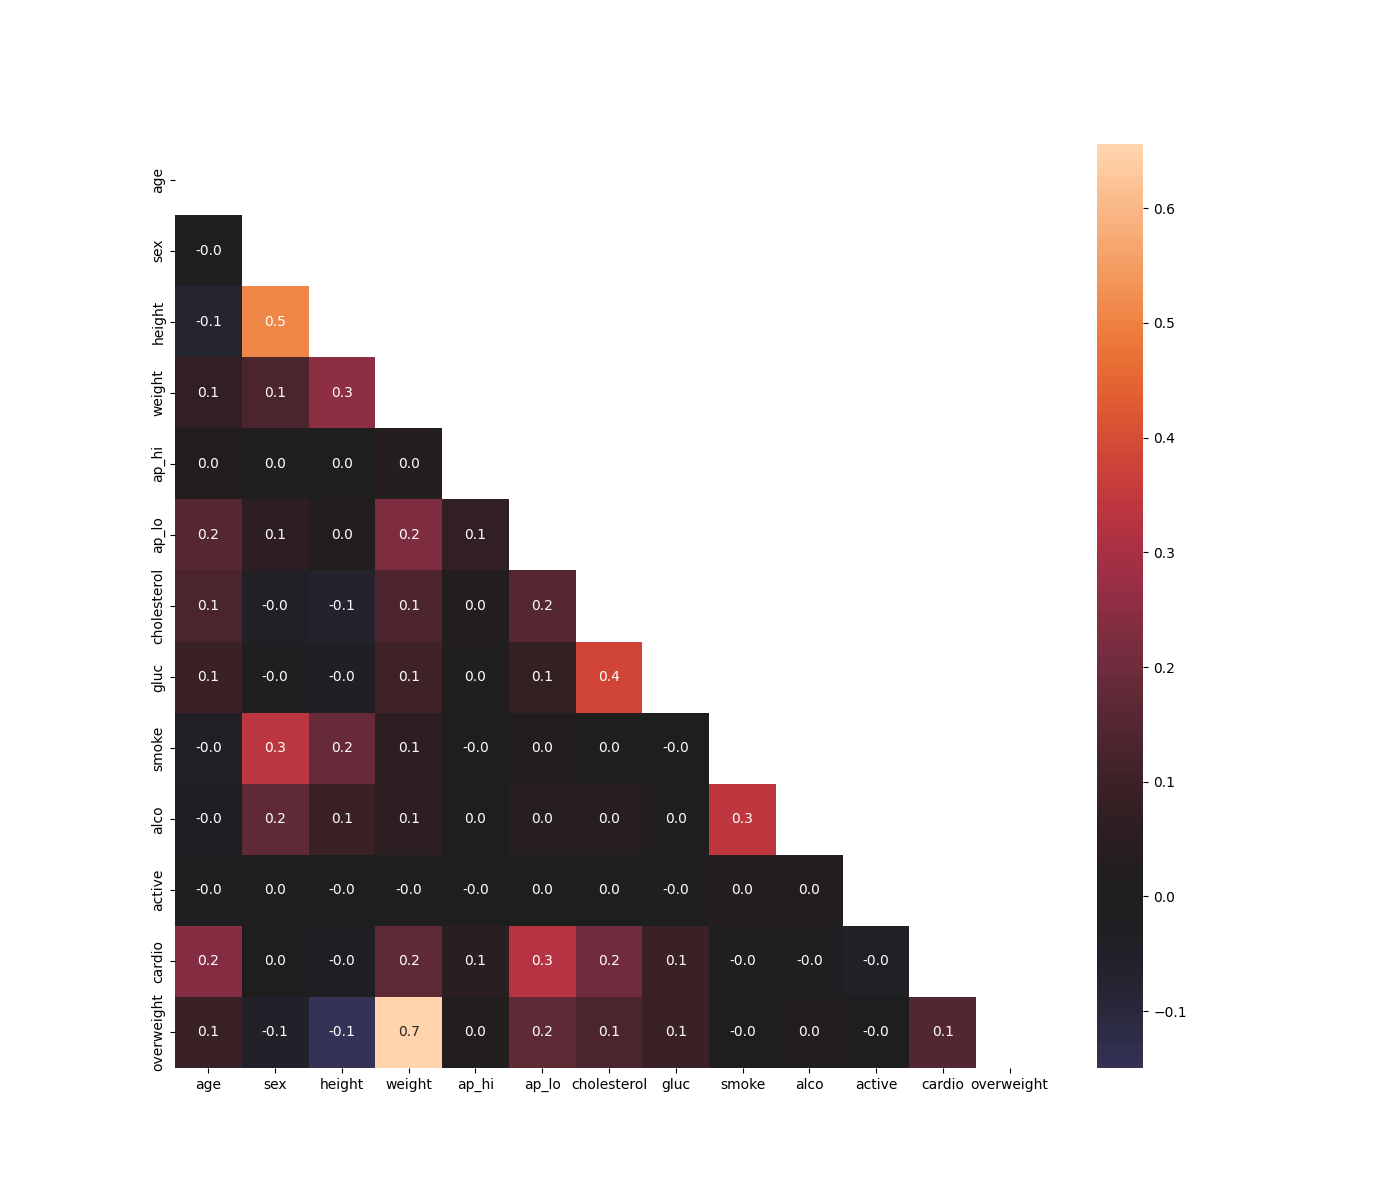
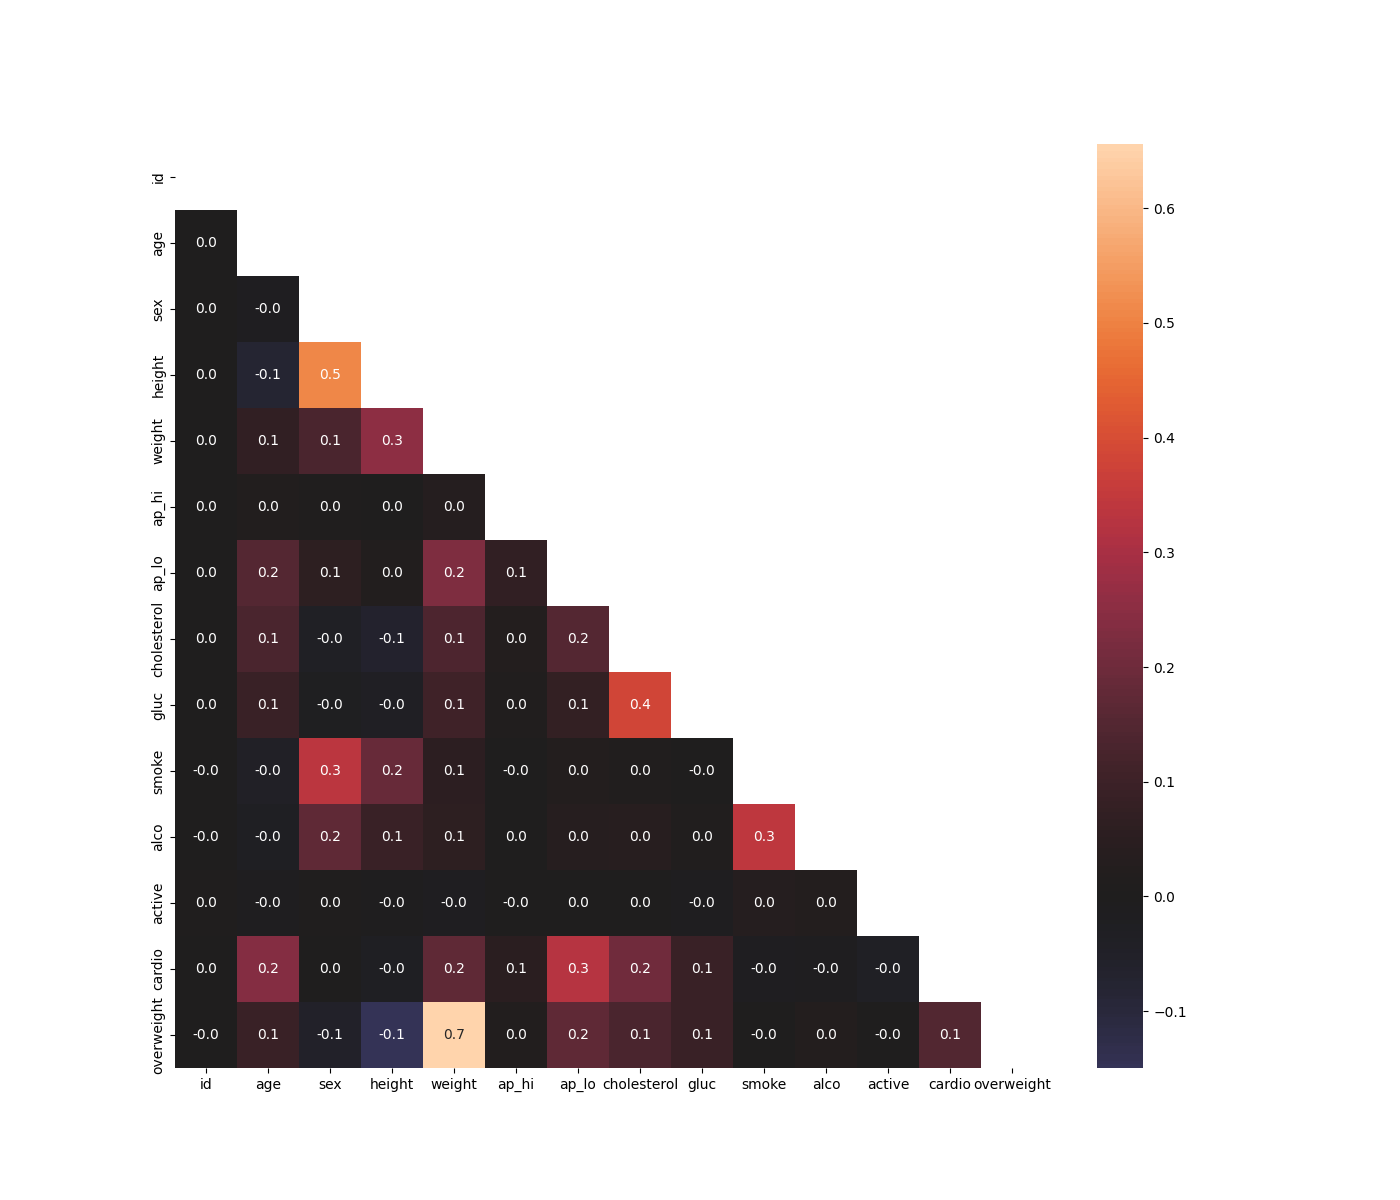
solved!

diff --git a/medical_data_visualizer.py b/medical_data_visualizer.py
@@ -52,6 +52,8 @@ def draw_heat_map():
         (df['weight'] <= df['weight'].quantile(0.975))
         ]
 
+    df_heat = df_heat.reset_index()
+
     # 12
     corr = df_heat.corr()
 
